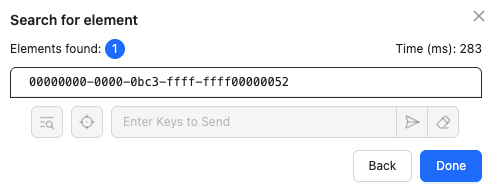
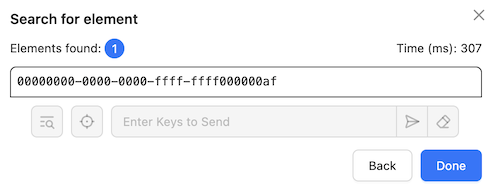
docs: update docs for search history (#3298)

diff --git a/docs/session-inspector/header.md b/docs/session-inspector/header.md
@@ -157,11 +157,18 @@ There is a choice of multiple locator strategies that can be used during search.
 support different locator strategies, and the Inspector will try to hide strategies that are not
 supported by the current driver.
 
-After selecting the locator strategy, entering the selector string, and pressing _Search_, the
-results screen is shown.
+It is also possible to specify the search details using the search history. The Inspector saves up
+to 20 most recent search queries across sessions, and the full list can be toggled using the
+history button in the bottom left corner:
 
-If one or more elements are found, the Inspector will list the element count, time taken, and a
-list of selectable element IDs:
+![Element Search History](./assets/images/header/search-history.png)
+
+Clicking on any recorded entry changes the current locator strategy and selector to those of the
+selected entry. A separate button can also be used to clear the history.
+
+Once the locator strategy and selector string are specified, clicking the search button starts the
+element lookup, after which the results screen is shown. If one or more elements are found, the
+Inspector will list the element count, time taken, and a list of selectable element IDs:
 
 ![Element Search Results](./assets/images/header/search-results.png)
 

diff --git a/docs/overview.md b/docs/overview.md
@@ -60,7 +60,7 @@ features. Here is a non-exhaustive list of such features:
 - View suggested element locator strategies and selectors to be used in your scripts
 - Compare the speed of different element finding strategies
 - Record your actions directly into Appium client code for 5+ different programming languages
-- Simulate system actions for iOS (home, Siri) and Android (back, home, app switch)
+- Simulate system actions for Android, iOS, tvOS and watchOS
 - Switch to different application contexts
 - Access a library of various Appium driver commands
 
